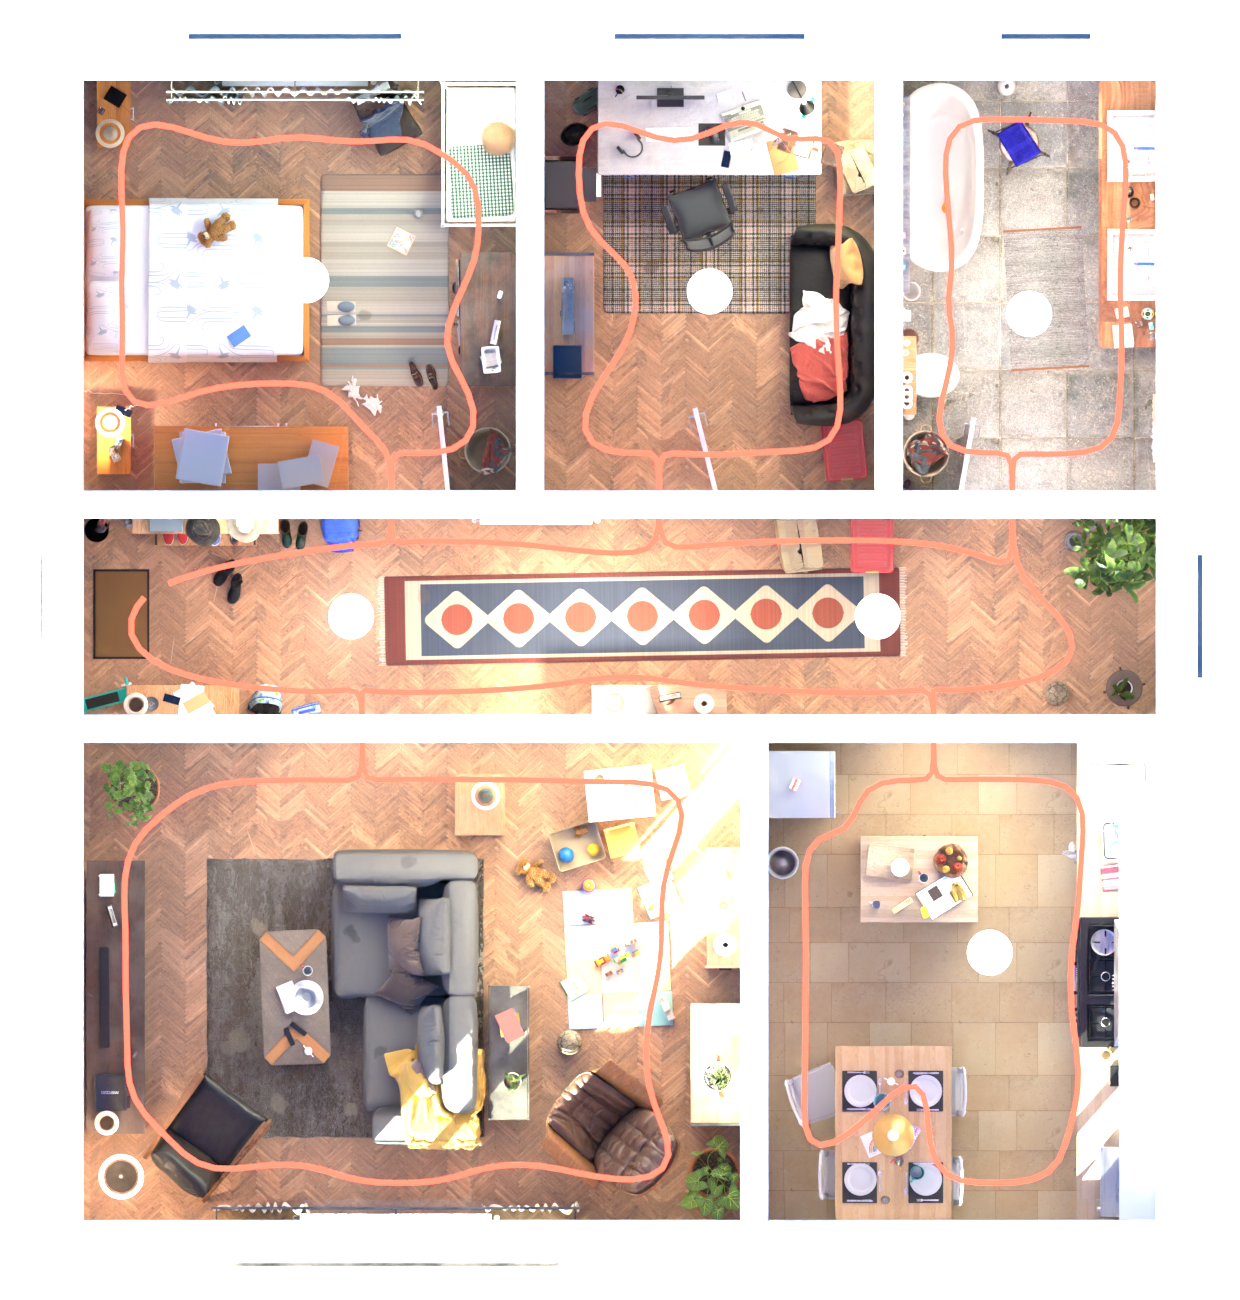
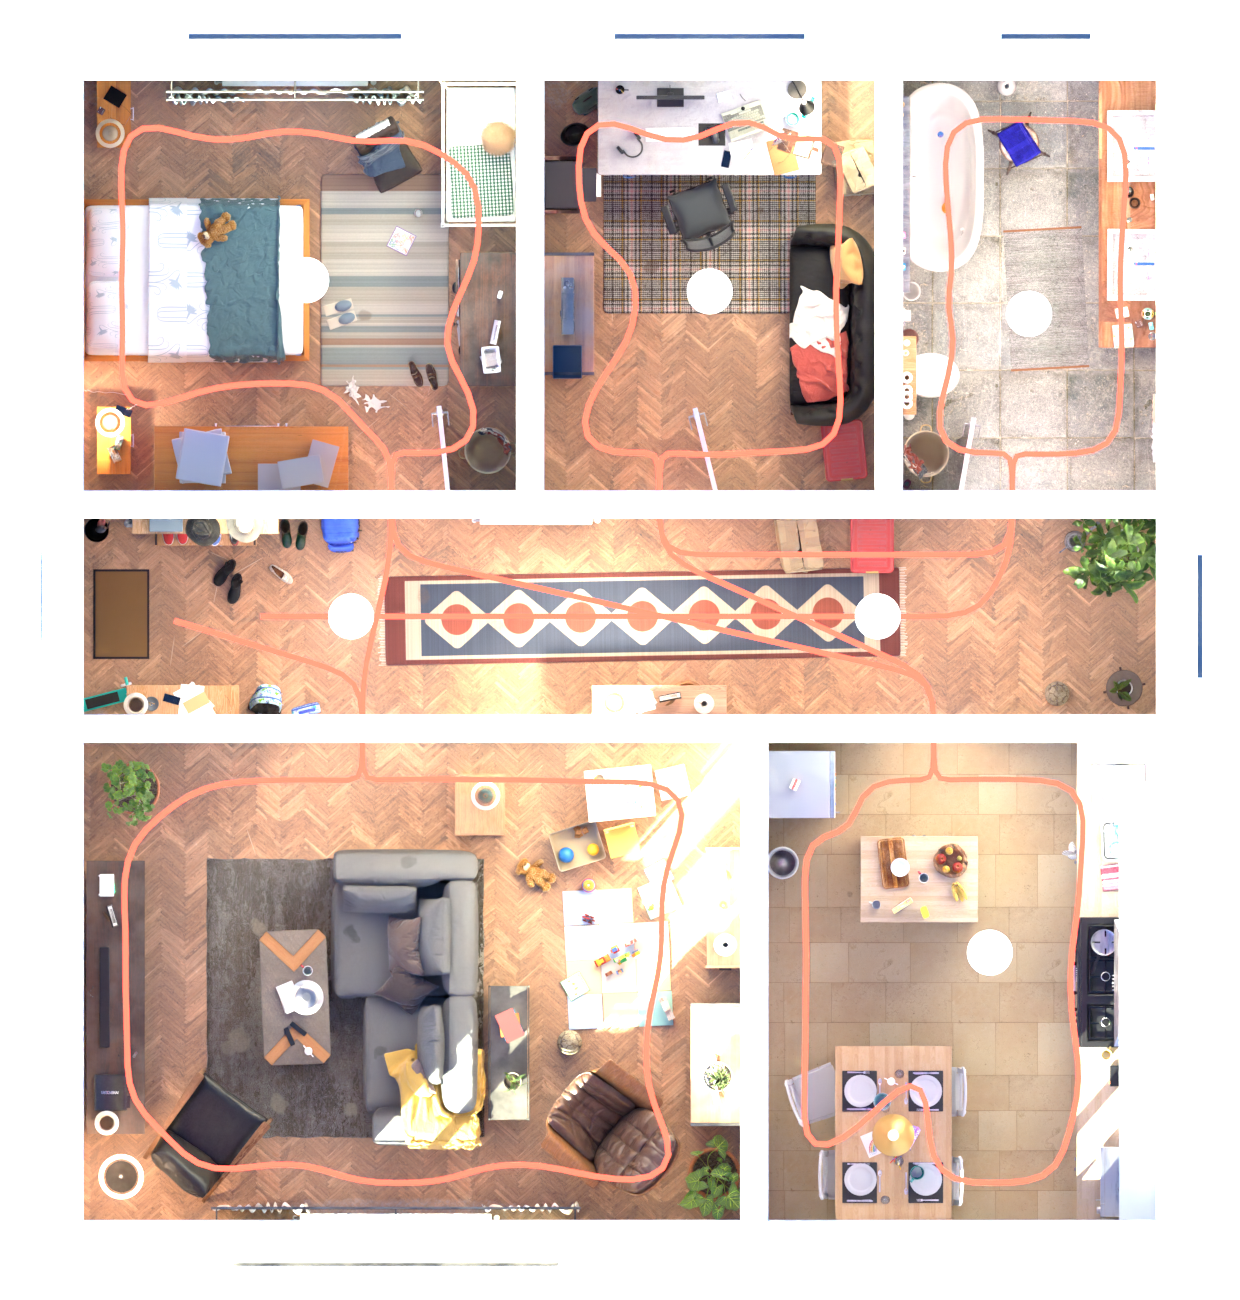
Fly-through in room order, GPU final render, bedroom chair clear of the curtains

diff --git a/apartment/flythrough.py b/apartment/flythrough.py
@@ -4,7 +4,8 @@
     blender -b out/apartment_scene.blend -P apartment/flythrough.py -- preview
     blender -b out/apartment_scene.blend -P apartment/flythrough.py -- final [first last]
 
-The route is one loop of the hallway, stepping into each room as its door comes up. Inside a
+The route starts at the front door and visits living room, bedroom, kitchen, office and
+bathroom in that order, crossing the hallway between them, then walks back to the door. Inside a
 room the camera circles along the walls, its back to the nearest wall, looking across the
 middle of the room at the far side. The circle is fitted to what is really there: anything
 standing in the camera's height band (wardrobe, shelves, fridge, open door leaves, plants,
@@ -35,8 +36,9 @@ BAND = (1.25, 1.85)         # anything between these heights is in the camera's 
 # metered like the stills; the camera's exposure follows the room it is in
 ROOM_EV = {"living": 3.3, "kitchen": 3.1, "hall": 1.7, "bedroom": 3.2, "office": 3.0, "bath": 1.0}
 # (room, x where the route crosses the wall, wall y, +1 if the room is north of the hall)
-DOORS = [("living", 2.7, S.YH0, -1), ("kitchen", 7.8, S.YH0, -1), ("bath", 8.5, S.YH1, 1),
-         ("office", 5.35, S.YH1, 1), ("bedroom", 2.96, S.YH1, 1)]
+# in visiting order: living room, bedroom across the hall, kitchen, office, bathroom
+DOORS = [("living", 2.7, S.YH0, -1), ("bedroom", 2.96, S.YH1, 1), ("kitchen", 7.8, S.YH0, -1),
+         ("office", 5.35, S.YH1, 1), ("bath", 8.5, S.YH1, 1)]
 
 
 # ------------------------------------------------------------------ free space ---
@@ -85,14 +87,8 @@ def line(a, b, step=0.05):
 
 def route(dg):
     """[(x, y, look_x, look_y, room)] at irregular spacing; look = point the camera faces."""
-    loops = {r: circuit(dg, r) for r in S.ROOMS}
-    hall, hc = loops["hall"]
-    start = nearest(hall, (0.9, (S.YH0 + S.YH1) / 2))          # by the entrance door
-    order = hall[start:] + hall[:start]
-    stops = {}
-    for room, dx, wy, sgn in DOORS:                             # where on the hall loop each door is passed
-        side = [i for i, p in enumerate(order) if (p[1] - hc[1]) * sgn > 0]
-        stops[min(side, key=lambda i: abs(order[i][0] - dx))] = (room, dx, wy, sgn)
+    loops = {r: circuit(dg, r) for r in S.ROOMS if r != "hall"}
+    here = (0.9, (S.YH0 + S.YH1) / 2)                           # just inside the entrance door
     out = []
 
     def across(p, c, room):                                     # look through the middle of the room at the far side
@@ -104,20 +100,17 @@ def route(dg):
             d = (q[0] - p[0], q[1] - p[1]) if q != p else (pts[i][0] - pts[i - 1][0], pts[i][1] - pts[i - 1][1])
             out.append((p[0], p[1], p[0] + d[0] * 50, p[1] + d[1] * 50, room))
 
-    for i, p in enumerate(order):
-        across(p, hc, "hall")
-        if i in stops:
-            room, dx, wy, sgn = stops[i]
-            loop, c = loops[room]
-            d_hall, d_room = (dx, wy - sgn * 0.45), (dx, wy + sgn * 0.55)
-            k = nearest(loop, d_room)
-            ahead(line(p, d_hall) + line(d_hall, d_room), "hall")
-            ahead(line(d_room, loop[k]), room)
-            for q in loop[k:] + loop[:k + 1]:
-                across(q, c, room)
-            ahead(line(loop[k], d_room) + line(d_room, d_hall), room)
-            ahead(line(d_hall, p), "hall")
-    across(order[0], hc, "hall")
+    for room, dx, wy, sgn in DOORS:
+        loop, c = loops[room]
+        d_hall, d_room = (dx, wy - sgn * 0.45), (dx, wy + sgn * 0.55)
+        k = nearest(loop, d_room)
+        ahead(line(here, d_hall) + line(d_hall, d_room), "hall")   # along the hall, looking where it goes
+        ahead(line(d_room, loop[k]), room)
+        for q in loop[k:] + loop[:k + 1]:
+            across(q, c, room)
+        ahead(line(loop[k], d_room) + line(d_room, d_hall), room)
+        here = d_hall
+    ahead(line(here, (8.2, 5.6)) + line((8.2, 5.6), (1.6, 5.6)), "hall")   # and back down the hall to the front door
     return out
 
 
@@ -255,7 +248,13 @@ def main():
     else:
         r.engine = "CYCLES"
         cy = sc.cycles
-        cy.samples = int(os.environ.get("FLY_SAMPLES", "160"))
+        prefs = bpy.context.preferences.addons["cycles"].preferences     # a fresh Blender renders on the CPU unless told
+        prefs.compute_device_type = "METAL"
+        prefs.get_devices()
+        for d in prefs.devices:
+            d.use = True
+        cy.device = "GPU"
+        cy.samples = int(os.environ.get("FLY_SAMPLES", "128"))
         cy.use_adaptive_sampling, cy.adaptive_threshold = True, 0.02
         cy.use_denoising = True
         r.use_persistent_data = True                             # keep the scene on the GPU between frames

diff --git a/apartment/rooms.py b/apartment/rooms.py
@@ -466,7 +466,7 @@ def bedroom(M):
     X.crib((x1 - 0.38, 9.72, 0), 0.0)
     ph("painted_wooden_cabinet", x1 - 0.33, 8.25, rot=F["W"])
     P.rug("BedRug", 1.15, 1.9, (2.9, 8.6, 0), kind="stripes")
-    chair = ph("dining_chair_02", 2.92, 10.05, rot=0.5)
+    chair = ph("dining_chair_02", 2.92, 9.72, rot=0.5)        # clear of the curtains
     P.ceiling_dome((2.2, 8.6, S.H), power=28, on=False)
     P.laundry_basket((3.82, 7.08, 0), 0.1)
     # walls
@@ -501,9 +501,9 @@ def bedroom(M):
     C.box("BabyMonitor", (0.07, 0.04, 0.11), (dx + 0.12, dy + 0.22, zd), P.PL("#f1f1ee", 0.35), rot=-PI / 2 - 0.3, bevel=0.01)
     # clothes chair
     refresh()
-    zc = Z(2.92, 10.0, 0.7)
-    P.garment("Jeans", 0.5, 0.75, (2.93, 10.02, zc), [chair, bpy.data.objects["Floor_bedroom"]], "#2f3b52", "denim_fabric", rot=0.5)
-    P.towel_hanging((2.8, 10.27, 0.985), "S", 0.38, 0.3, 0.35, "#d8d2c6", gap=0.03, tex="cotton_jersey").rotation_euler[2] = 0.5
+    zc = Z(2.92, 9.67, 0.7)
+    P.garment("Jeans", 0.5, 0.75, (2.93, 9.69, zc), [chair, bpy.data.objects["Floor_bedroom"]], "#2f3b52", "denim_fabric", rot=0.5)
+    P.towel_hanging((2.8, 9.94, 0.985), "S", 0.38, 0.3, 0.35, "#d8d2c6", gap=0.03, tex="cotton_jersey").rotation_euler[2] = 0.5
     # floor
     ph("baseball_01", 3.2, 9.2, 0.014)
     P.picture_book((3.05, 8.95, 0.012), 1.1, 1)
